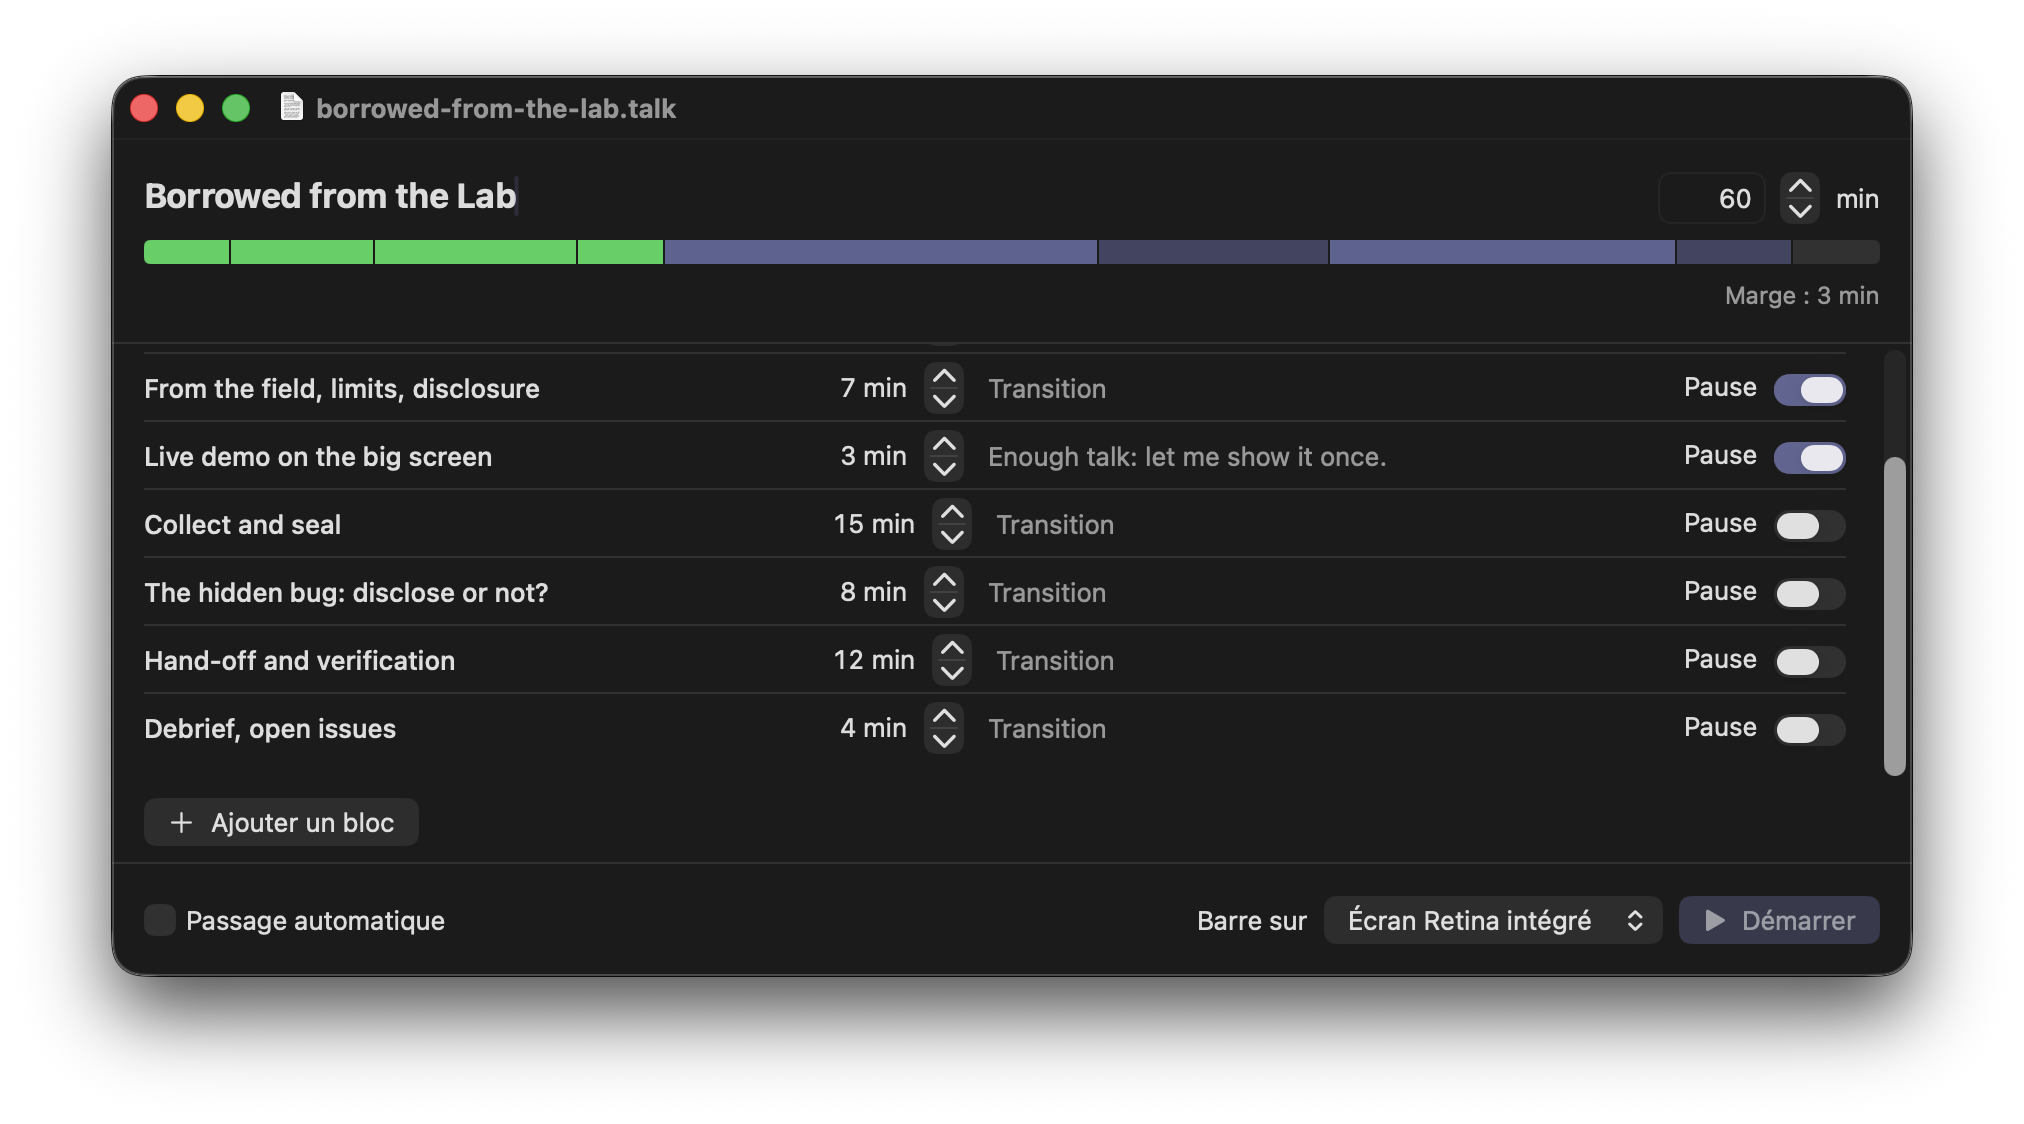
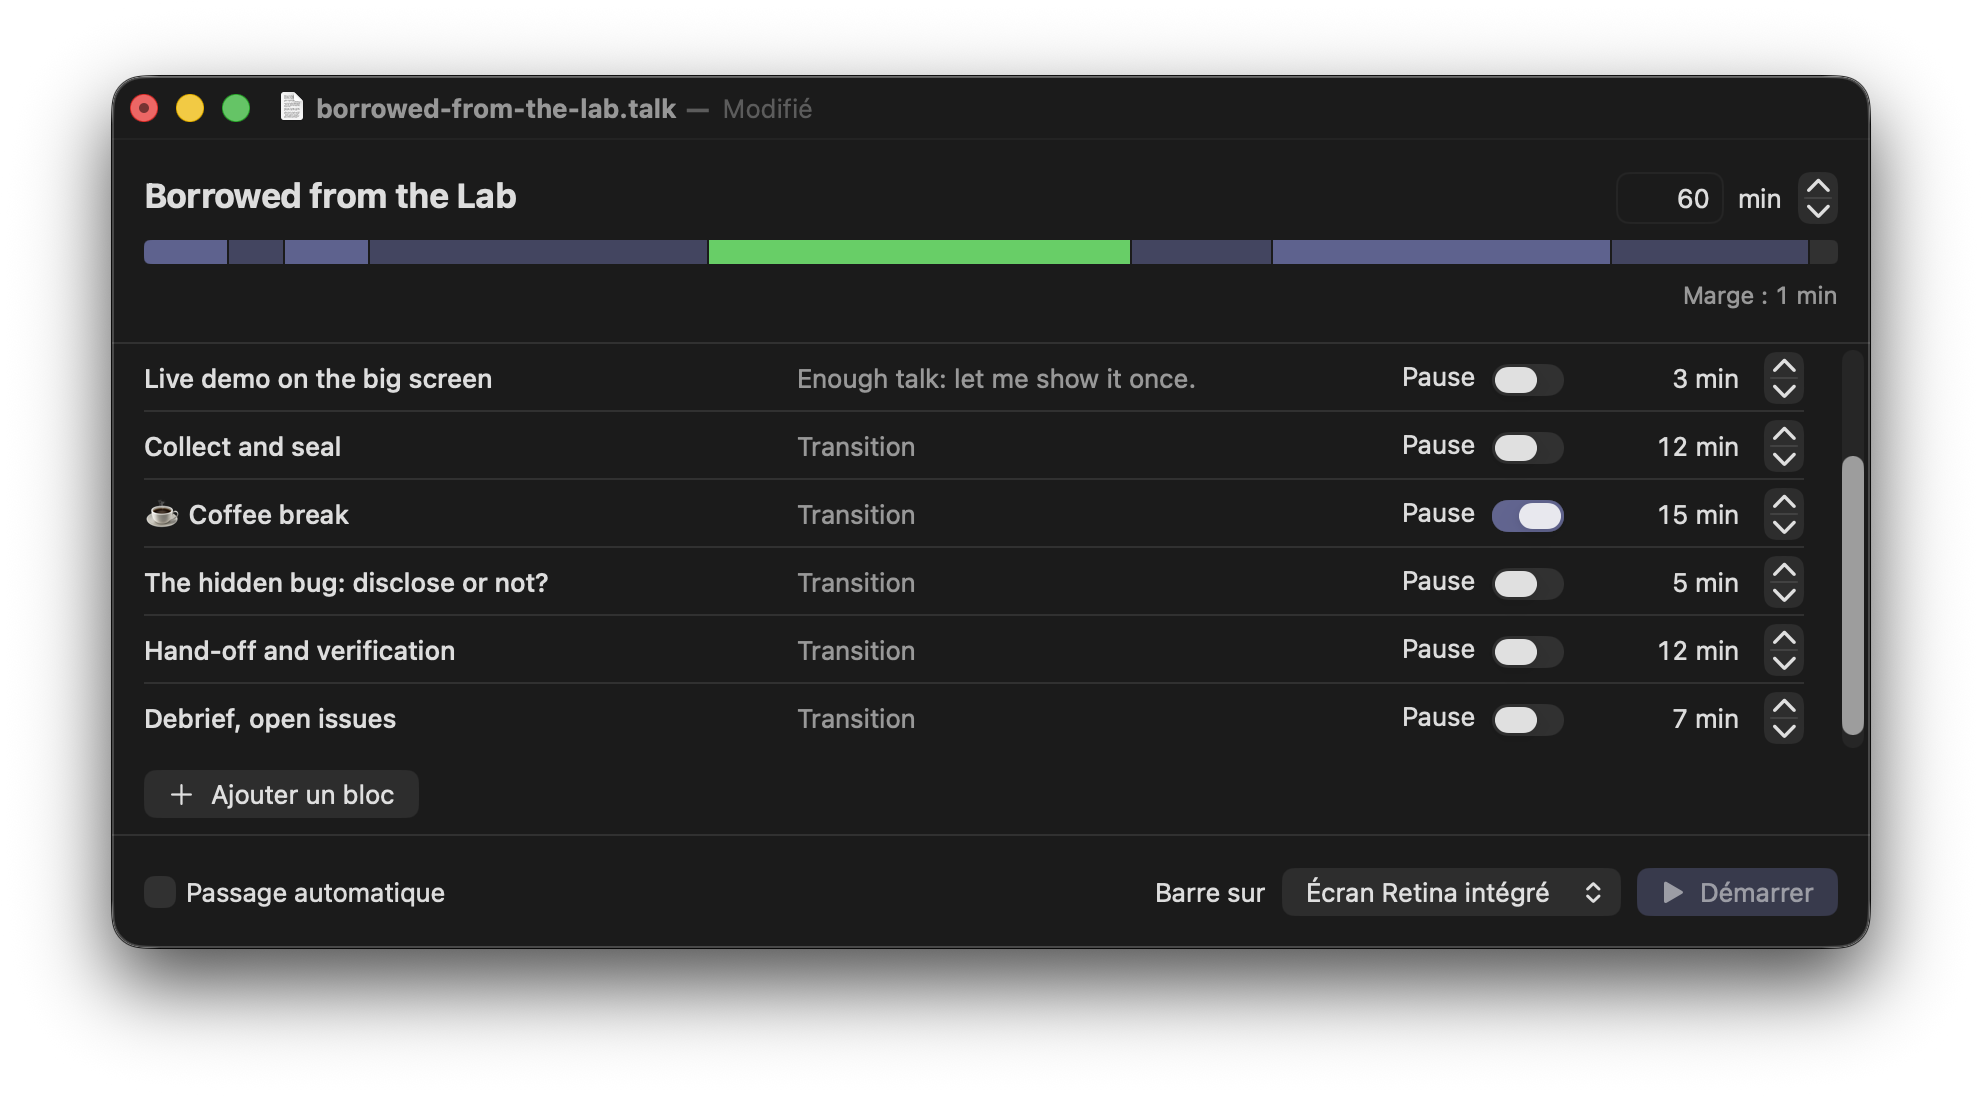
💄 style(planner): align row columns: title, cue, break, length

diff --git a/App/PlannerView.swift b/App/PlannerView.swift
@@ -55,13 +55,13 @@ struct PlannerView: View {
                 TextField("Total", value: totalBinding, format: .number)
                     .frame(width: 52)
                     .multilineTextAlignment(.trailing)
+                Text("min")  // même ordre que les lignes : valeur, « min », flèches
                 Stepper("Total") {
                     totalBinding.wrappedValue = talk.totalMinutes + 1
                 } onDecrement: {
                     totalBinding.wrappedValue = talk.totalMinutes - 1
                 }
                 .labelsHidden()
-                Text("min")
             }
             StripView(talk: talk)
             HStack {
@@ -120,8 +120,13 @@ struct PlannerView: View {
     }
 }
 
-/// Une ligne du planificateur : titre, durée, transition, pause prévue (§ 5).
+/// Une ligne du planificateur, en colonnes : titre | transition | pause | durée et flèches (§ 5).
+/// Tout ce qui suit la transition a une largeur fixe : titre et transition se partagent le reste à parts égales,
+/// donc la colonne Transition commence au même endroit sur chaque ligne.
 struct BlockRow: View {
+    /// Largeur de « 1440 min », la plus longue durée possible (§ 3).
+    static let minutesWidth: CGFloat = 64
+
     @Binding var block: Block
     let onStep: (Int) -> Void
 
@@ -130,21 +135,27 @@ struct BlockRow: View {
             TextField("Block title", text: $block.title)
                 .textFieldStyle(.plain)
                 .fontWeight(.medium)
-            Stepper {
-                Text("\(block.minutes) min").monospacedDigit()
-            } onIncrement: {
-                onStep(1)
-            } onDecrement: {
-                onStep(-1)
-            }
-            .fixedSize()  // la durée reste collée à ses flèches
+                .frame(maxWidth: .infinity, alignment: .leading)
             TextField("Cue", text: Binding { block.cue ?? "" } set: { block.cue = $0.isEmpty ? nil : $0 })
                 .textFieldStyle(.plain)
                 .foregroundStyle(.secondary)
+                .frame(maxWidth: .infinity, alignment: .leading)
+                .padding(.leading, 12)
             Toggle("Break", isOn: $block.isBreak)
                 .toggleStyle(.switch)
                 .controlSize(.mini)
                 .fixedSize()  // le libellé reste collé à l'interrupteur
+            Text("\(block.minutes) min")
+                .monospacedDigit()
+                .frame(width: Self.minutesWidth, alignment: .trailing)
+                .padding(.leading, 12)  // sépare la durée de l'interrupteur : les flèches vont avec les minutes
+            Stepper("Length") {
+                onStep(1)
+            } onDecrement: {
+                onStep(-1)
+            }
+            .labelsHidden()
+            .accessibilityValue(Text("\(block.minutes) min"))
         }
     }
 }

diff --git a/SPECS.md b/SPECS.md
@@ -141,21 +141,21 @@ talk-timer est une **app document** (`DocumentGroup` + `FileDocument`) : **une f
 
 ```
 ┌──────────────────────────────────────────────────────────────┐
-│ Borrowed from the Lab                   Total [ 60 ] min      │
+│ Borrowed from the Lab                       [ 60 ] min ⇕     │
 │ ▕▏███▕█████▕███████▕███▕███████████████▕████████▕█████████…▕ │ ← frise proportionnelle
-│                                         Marge : 0 min         │
+│                                         Marge : 0 min        │
 ├──────────────────────────────────────────────────────────────┤
-│ ≡  Why the digital is political          [ 3 ] [−][+]   cue… │
-│ ≡  Evidence before a judge               [ 5 ] [−][+]   cue… │
-│ ≡  …                                                          │
-│ [+ Bloc]                                                      │
+│ Why the digital is political  cue…      Pause ○   3 min ⇕    │
+│ Evidence before a judge       cue…      Pause ○   5 min ⇕    │
+│ …                                                            │
+│ [+ Bloc]                                                     │
 ├──────────────────────────────────────────────────────────────┤
-│ [ ] Passage auto.  Barre sur : [Écran intégré ▾]  ▶ Démarrer  │
+│ [ ] Passage auto.  Barre sur : [Écran intégré ▾]  ▶ Démarrer │
 └──────────────────────────────────────────────────────────────┘
 ```
 
 - **Nouveau talk** : 30 min et un premier bloc « Introduction » de 5 min. Un talk sans bloc serait refusé au chargement (§ 3).
-- **Liste** : `List` avec `.onMove`, pour le glisser-déposer natif (sur macOS, la ligne entière se glisse ; la poignée `≡` du schéma n'est pas dessinée). Sur chaque ligne :
+- **Liste** : `List` avec `.onMove`, pour le glisser-déposer natif (sur macOS, la ligne entière se glisse, sans poignée). Colonnes alignées d'une ligne à l'autre : titre | transition | Pause | durée et flèches. La partie droite a une largeur fixe, et la durée est séparée de l'interrupteur pour que les flèches se lisent avec les minutes. Sur chaque ligne :
   - un titre modifiable ;
   - un `Stepper` ± 1 min, borné par les règles du § 4 ;
   - un champ `cue` facultatif ;
